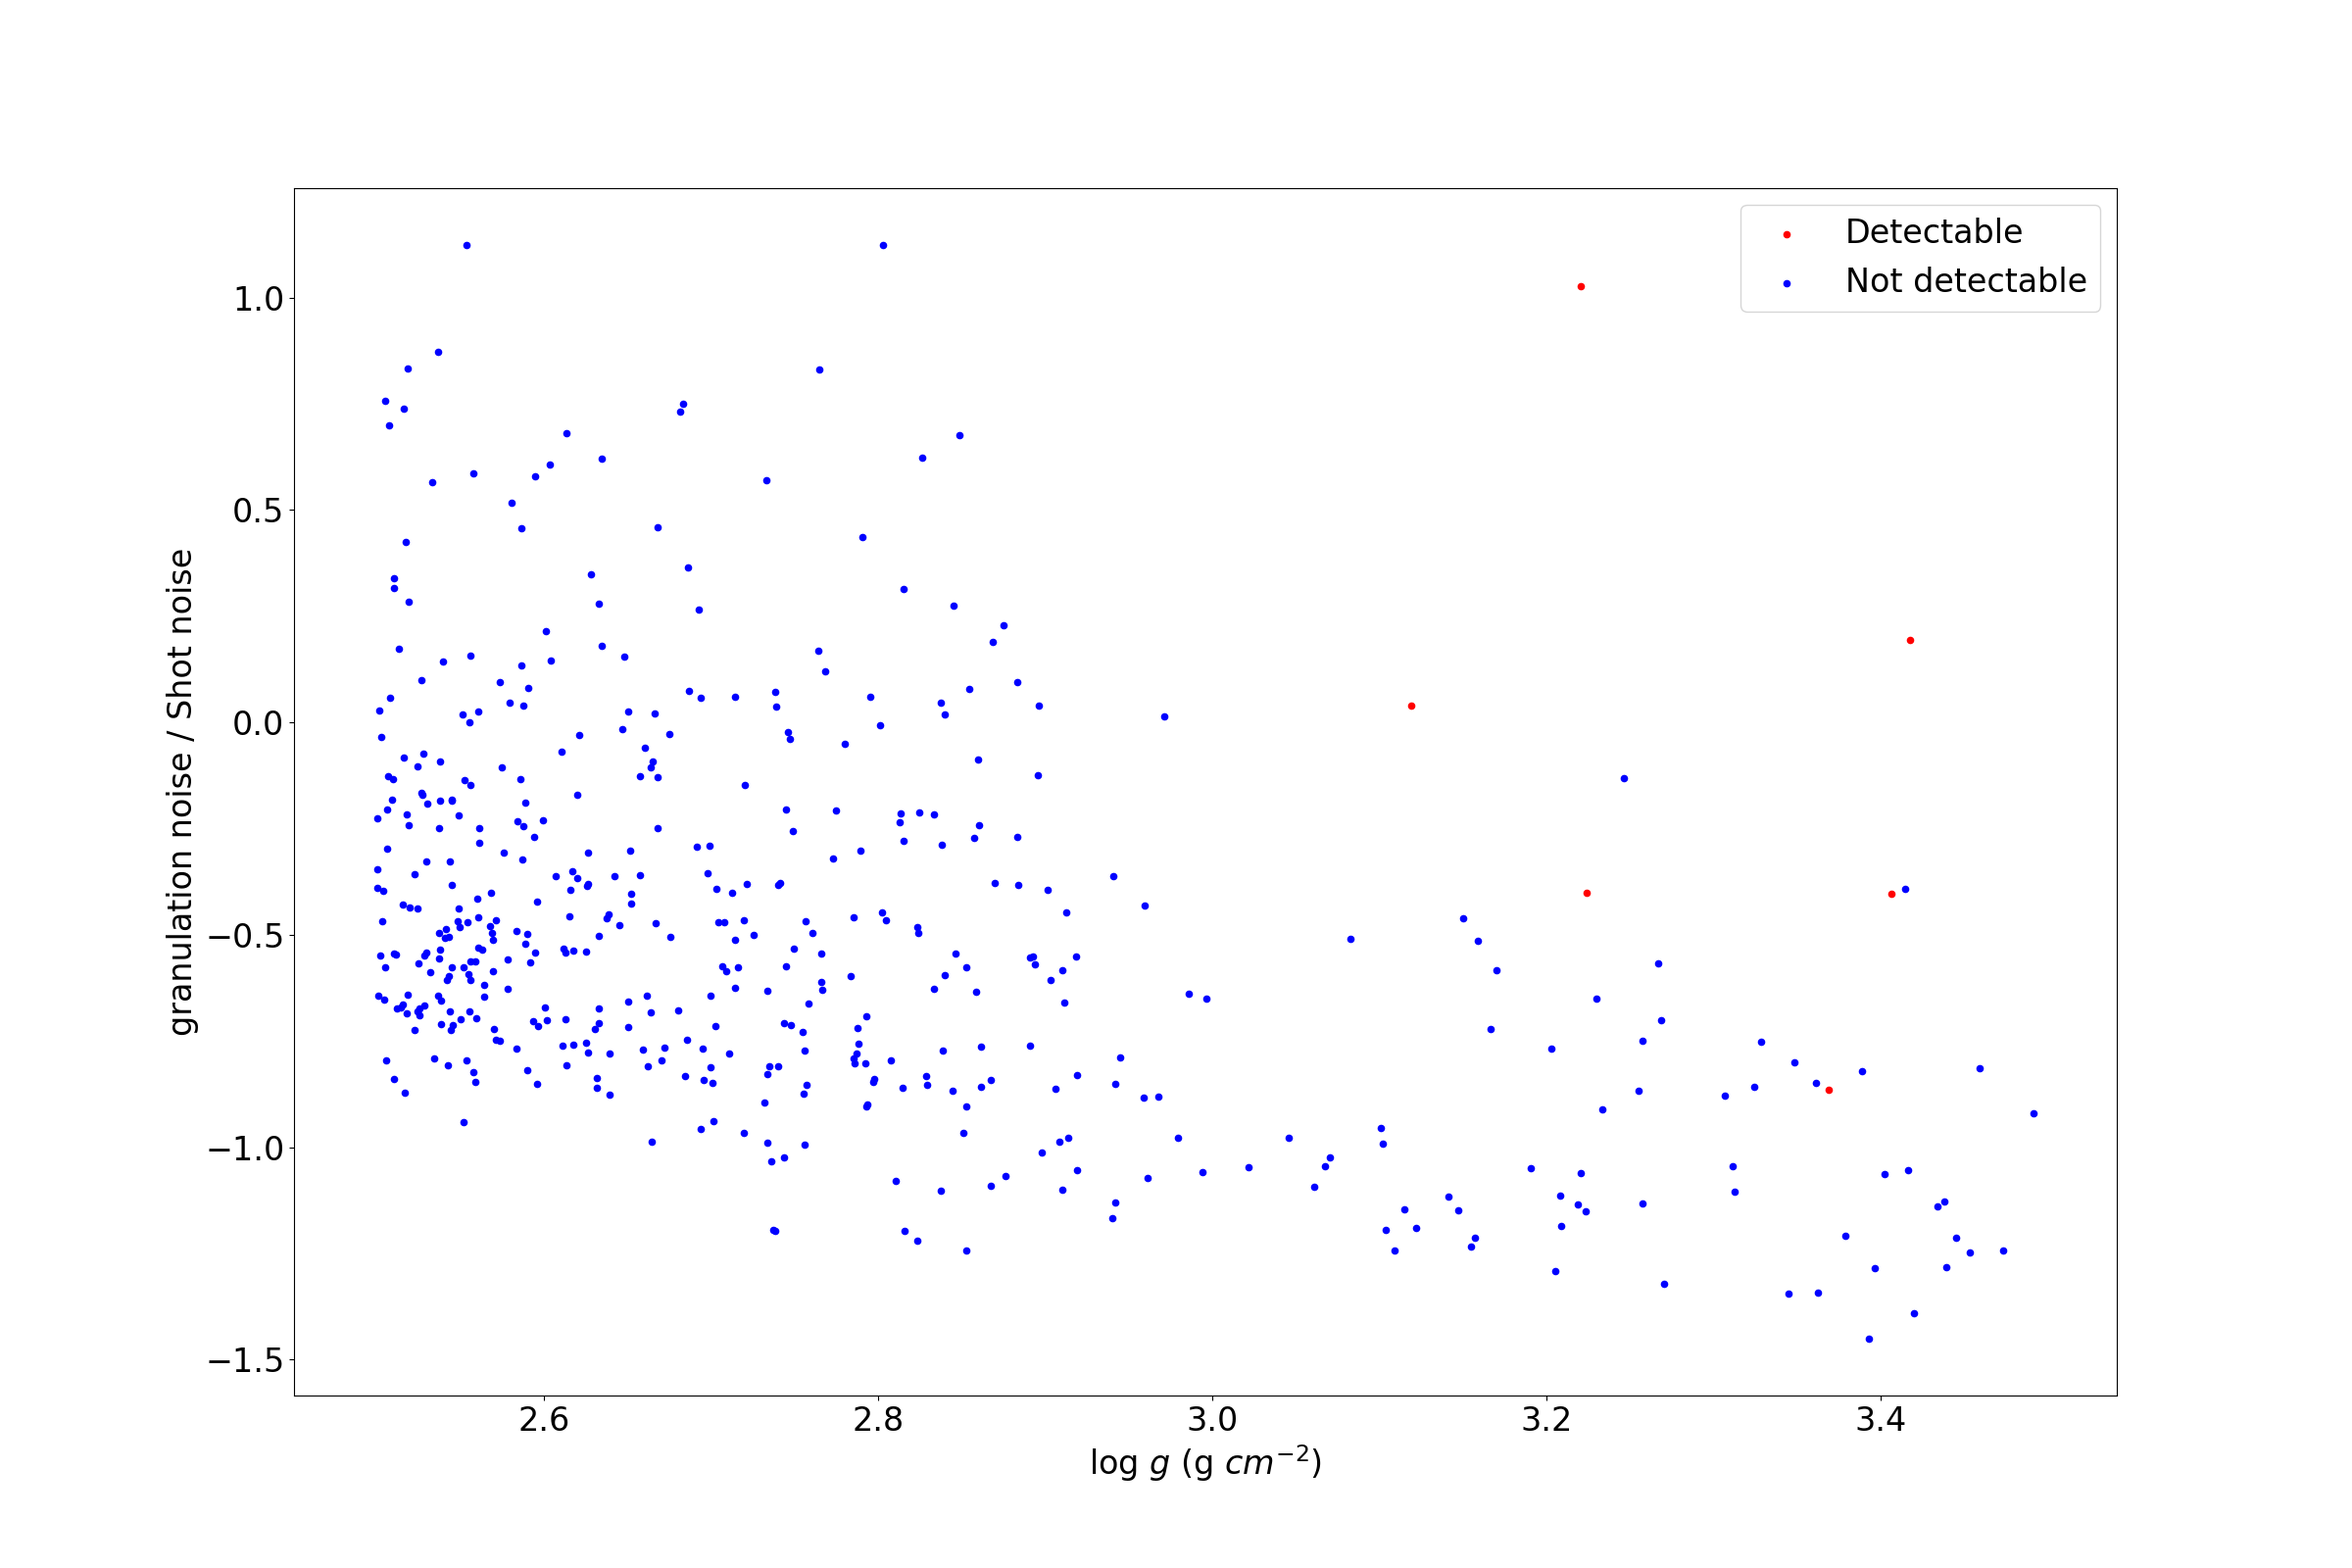
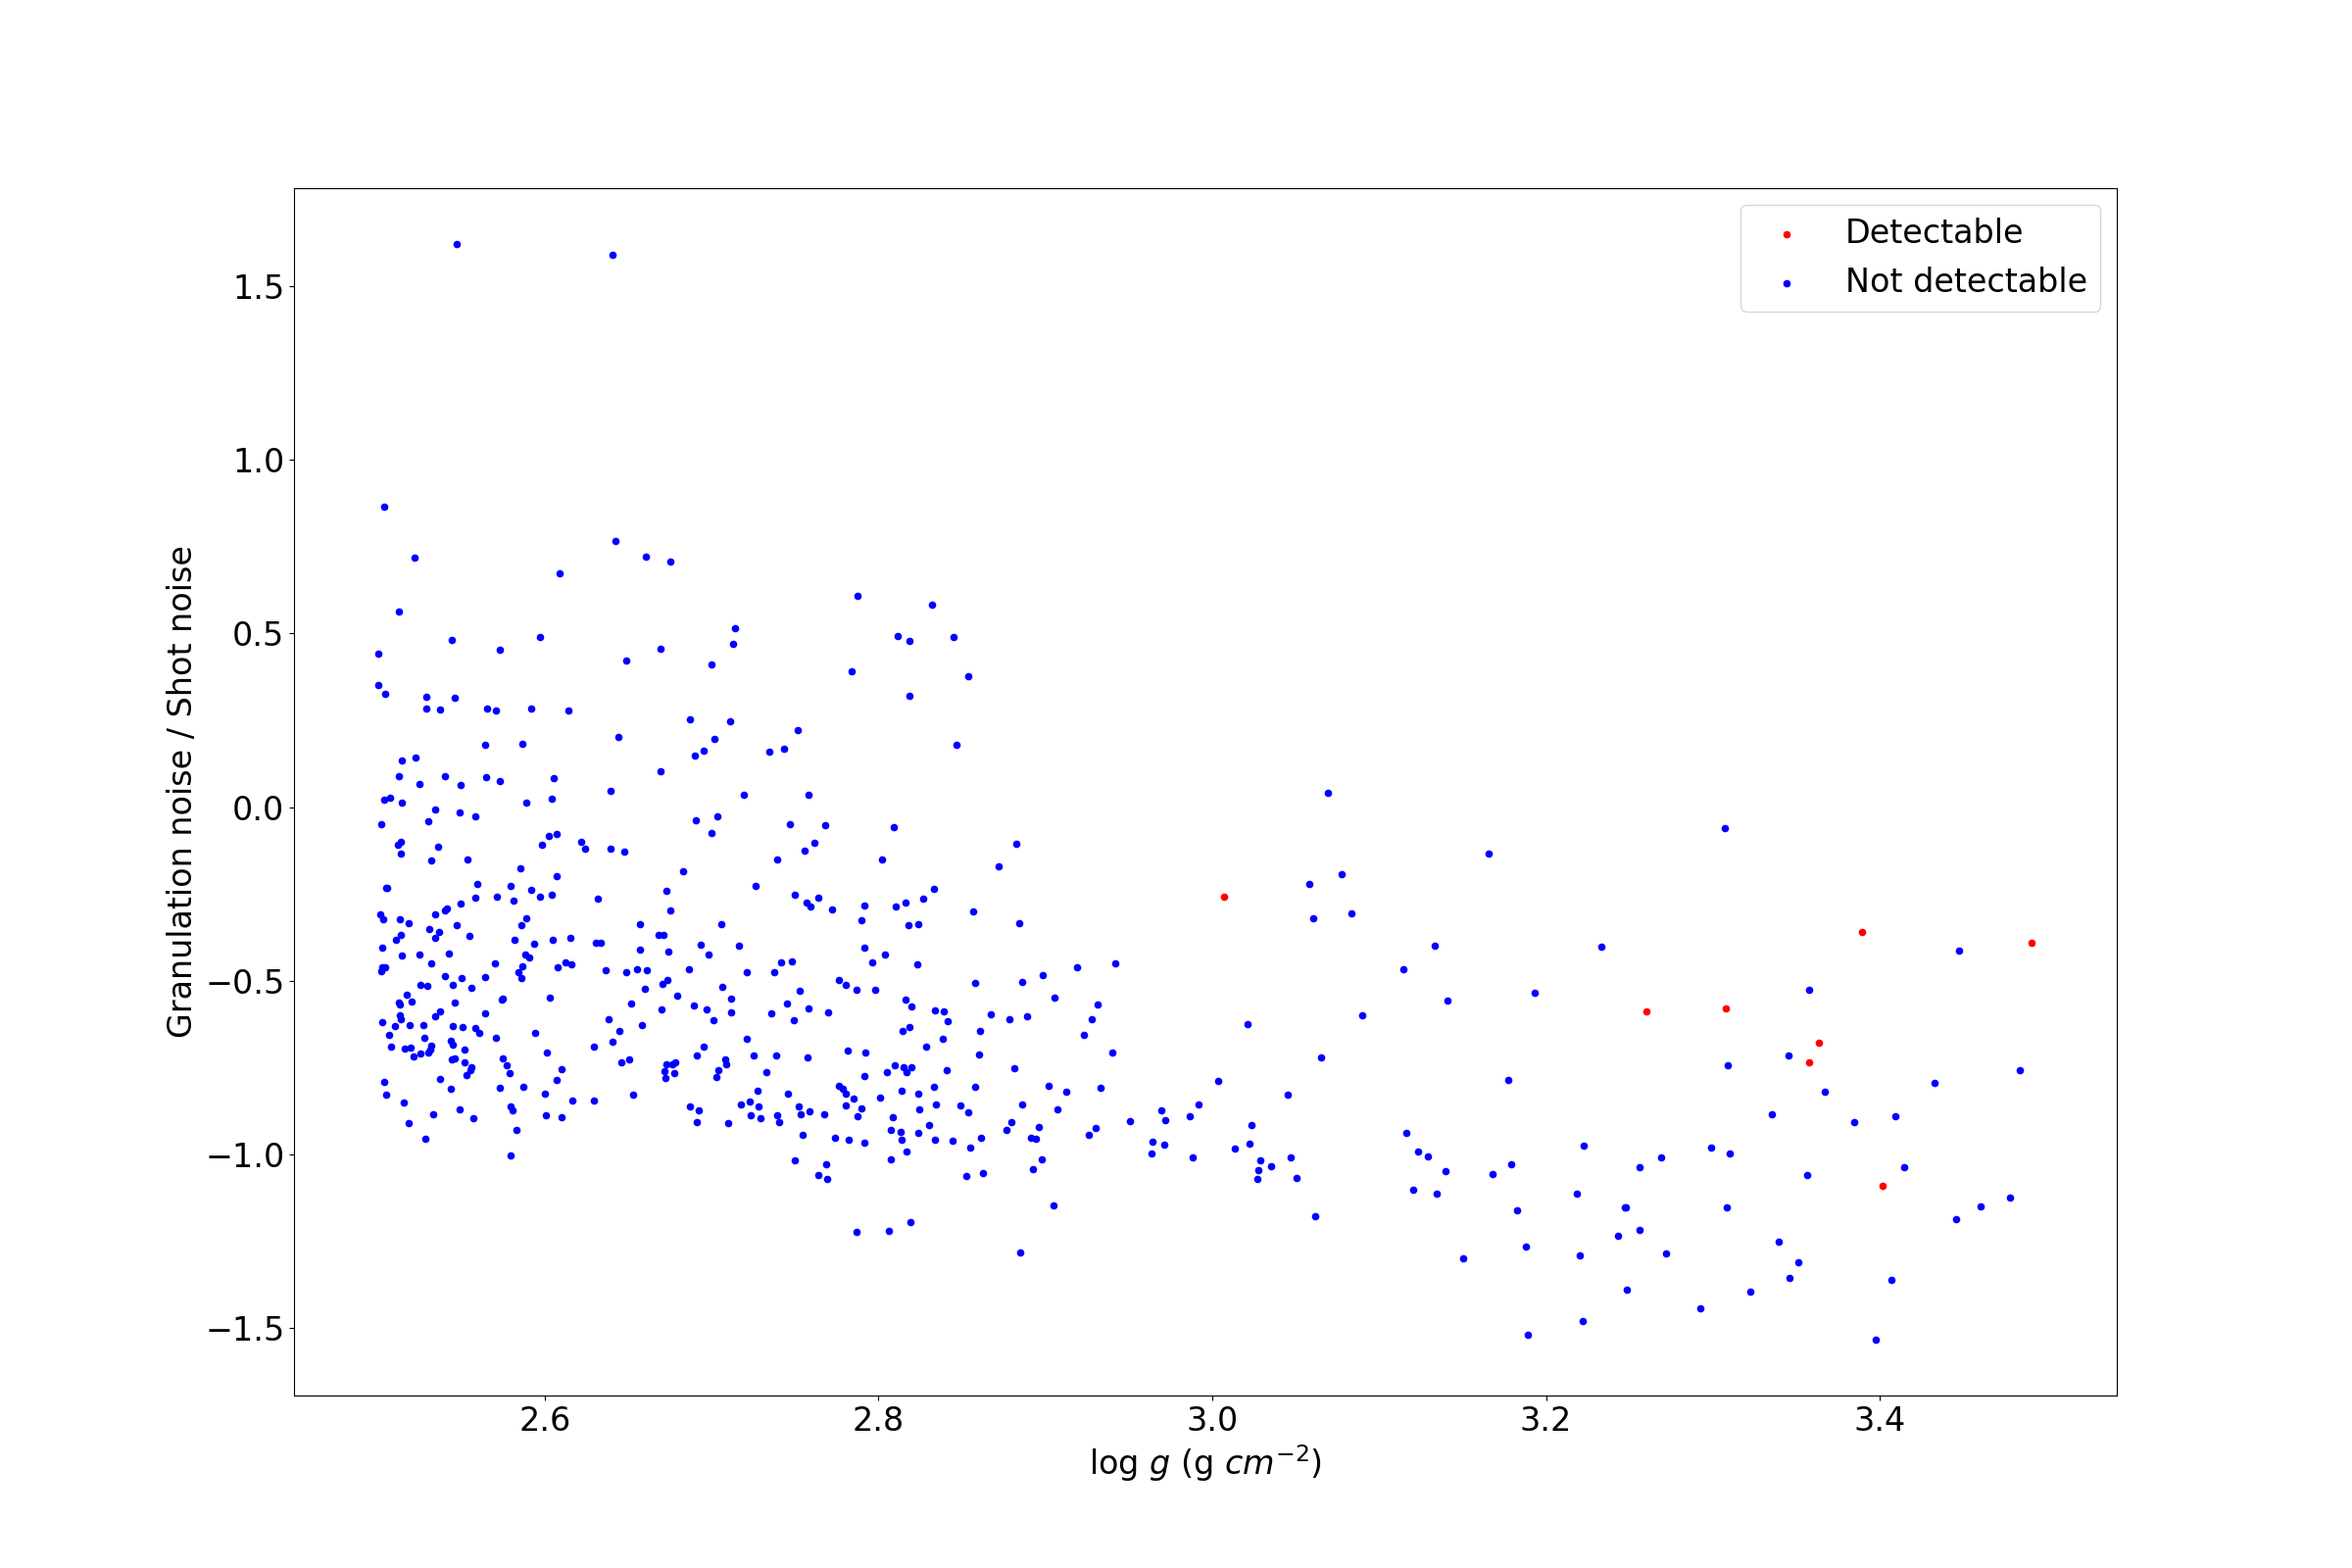
Added plot of both noises

diff --git a/tess-yield/planet_sample.py b/tess-yield/planet_sample.py
@@ -112,11 +112,7 @@ def planet_seeding(planet_rate, min_n_transits=2, pop_multi=10, write_output=0, 
 		ec_lat[has_planet][has_transit][has_min_transits], g_lon[has_planet][has_transit][has_min_transits], 
 		g_lat[has_planet][has_transit][has_min_transits], npix_aper=npix_aper)
 	# Shot noise initial value is for one hour of observations. Convert to transit duration
-	shotnoise2 = shotnoise / (np.sqrt(t_duration[has_min_transits]))
-
-	print(sum((gran_noise/shotnoise) > 1))
-	print(gran_noise[:30]/shotnoise[:30])
-	sys.exit()
+	shotnoise = shotnoise / (np.sqrt(t_duration[has_min_transits]))
 
 	# Add noise in quadrature
 	noise = np.sqrt(gran_noise**2 + shotnoise**2)
@@ -333,9 +329,10 @@ def plot_noise_function(logg, shotnoise, gran_noise, noise, has_planet, has_tran
 		s=25, color='blue', label="Shot noise")
 	plt.xlabel(r"log $g$ (g $cm^{-2}$)", fontsize=24)
 	plt.ylabel(r"Noise", fontsize=24)
+	plt.ylim([0.0, 1.1*max(shotnoise.max(), gran_noise.max())])
 	plt.tick_params(labelsize=24)
 	plt.legend(fontsize=24)
-	plt.savefig("figures/" + "gran_shot_noise_logg.png")
+	plt.savefig("figures/" + "noise_logg.png")
 
 	plt.close("all")
 
